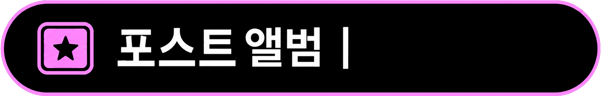
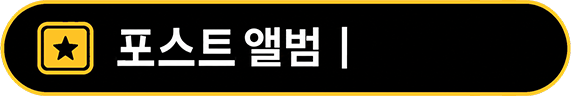
feat(post): 그래픽 소스 11-15 반영 — 머리글(Prime 단독·안내 문구) · 앨범/부스트 새 규격 · 장수 휴지통 위
- 머리글을 고정 높이 Stack으로: 제목 47 · 안내 문구(homeSubtitle) · 포스트 전용 Prime 277×92.
  높이는 가든과 같게 둬 공용 aboveCard·카드 크기 불변
- button_postalbum 571 · button_boost 430(부스트 622), 상태값 칸 재실측
- 1/9를 휴지통 위(903,524)로 크게, 자물쇠 330, 공유 576, 촬영 1839
- 대조 도구 공용 표에서 scene_post/button_prime 제외
- 에뮬에서 참고화면과 픽셀 대조(제목·Prime·문구 폭·장수 높이 일치)

Changed region(s): [[0.0595, 0.2188, 0.6252, 0.7812], [0.0, 0.0, 1.0, 1.0]]

diff --git a/lib/features/post/presentation/widgets/post_art.dart b/lib/features/post/presentation/widgets/post_art.dart
@@ -6,6 +6,8 @@ import 'package:flutter/material.dart';
 /// 줄여 그리기 때문이다 — **일본어판 이미지로 교체할 때 같은 규격이면 코드를 안 고쳐도 된다.**
 ///
 /// 좌표는 `오늘의 포스트 좌표값.png`의 1080 캔버스 픽셀값이다(Plan_4부터 단위 변환이 없다).
+/// 🆕 2026-11-15 전달본(`그래픽 소스/포스트 화면`) 기준 — 루나 버튼이 빠지고 Prime이 혼자 커졌다,
+/// 제목 아래 안내 문구가 생겼다, 장수(`1/9`)가 휴지통 위로 올라갔다, 앨범·부스트 그림 규격이 바뀌었다.
 class PostArt {
   const PostArt._();
 
@@ -25,36 +27,40 @@ class PostArt {
 
   static const String title = '$_dir/title_post.png';
   static const Size titleSize = Size(232, 66);
-  static const Offset titleAt = Offset(47, 106);
+  /// 참고화면 실측 104(좌표값 표기는 106). 머리글 칸은 [DesignCanvas.headerTop](102)에서 시작한다.
+  static const Offset titleAt = Offset(47, 104);
 
-  // 상단 우측 두 버튼 — 달빛가든과 같은 자리·같은 그림이라 common에 둔다.
-  static const String btnPrime = '$_garden/button_prime.png';
-  static const Size btnPrimeSize = Size(248, 83);
-  static const Offset btnPrimeAt = Offset(577, 102);
+  /// 제목 아래 안내 문구 `오늘의 일상을 사진으로 공유해 보세요.`(2026-11-15 시안) —
+  /// **그림으로 오지 않아 폰트로 그린다**(ARB `homeSubtitle`). 참고화면 실측 글자 48~599 · 198~230.
+  static const Offset subtitleAt = Offset(47, 195);
+  static const double subtitleFontSize = 34;
 
-  static const String btnLuna = '$_garden/button_luna.png';
-  static const Size btnLunaSize = Size(216, 83);
-  static const Offset btnLunaAt = Offset(838, 102);
+  /// 🚨 **포스트 전용 Prime**(277×92, 2026-11-15) — 루나 버튼이 빠지며 혼자 커졌다.
+  /// 달빛가든 머리글은 아직 옛 그림(248×83, `scene_garden`)이다 — 가든 전달본이 바뀌면 가든 세션이 맞춘다.
+  /// 머리글 칸(102~185)보다 위아래로 조금 넘친다(94~186) — 칸 높이는 가든과 같게 두고 그림만 넘치게 한다.
+  static const String btnPrime = '$_dir/button_prime.png';
+  static const Size btnPrimeSize = Size(277, 92);
+  static const Offset btnPrimeAt = Offset(777, 94);
 
-  // 카드 위 두 버튼.
+  // 카드 위 두 버튼(2026-11-15 규격 변경: 601→571 · 407→430, 부스트 시작 645→622).
   static const String btnAlbumPass = '$_dir/button_postalbum.png';
-  static const Size btnAlbumPassSize = Size(601, 96);
+  static const Size btnAlbumPassSize = Size(571, 96);
   static const Offset btnAlbumPassAt = Offset(23, 356);
 
   static const String btnBoost = '$_dir/button_boost.png';
-  static const Size btnBoostSize = Size(407, 96);
-  static const Offset btnBoostAt = Offset(645, 356);
+  static const Size btnBoostSize = Size(430, 96);
+  static const Offset btnBoostAt = Offset(622, 356);
 
   /// 두 버튼의 그림에는 `포스트 앨범 |` · `부스트 |` 까지만 있다.
   /// **막대 오른쪽은 비어 있고** 거기에 상태(남은 일수·남은 분·구매)를 얹는다 —
   /// 사람마다 다른 값이라 그림에 구울 수 없다.
   ///
   /// 상태값은 **막대(`|`) 오른쪽 끝 ~ 테두리 안쪽** 사이의 **가운데**에 놓는다(기획 2026-10-04).
-  /// 그림 실측: 앨범 막대 343~347·테두리 안쪽 597 / 부스트 막대 239~243·테두리 안쪽 404.
-  static const double btnAlbumPassStatusLeft = 348;
-  static const double btnAlbumPassStatusRight = 4; // 601 - 597
+  /// 그림 실측(2026-11-15판): 앨범 막대 342~346·테두리 안쪽 567 / 부스트 막대 239~243·테두리 안쪽 427.
+  static const double btnAlbumPassStatusLeft = 347;
+  static const double btnAlbumPassStatusRight = 4; // 571 - 567
   static const double btnBoostStatusLeft = 244;
-  static const double btnBoostStatusRight = 3; // 407 - 404
+  static const double btnBoostStatusRight = 3; // 430 - 427
 
   // 카드 안에 얹히는 것들.
   //
@@ -112,9 +118,13 @@ class PostArt {
   /// `[TOP]` — 시안 `64, 527`.
   static Offset get topChipAt => _fromCardTopLeft(const Offset(64, 527));
 
-  /// 잠금 마크 — `[TOP]`(64~308)과 PICK(414~) **사이 106의 가운데**, 세로는 [TOP]과 같은 줄
-  /// (높이도 84로 같다). 기획서 261011 3-1 그림에서 그 빈칸에 들어가 있다.
-  static Offset get lockAt => _fromCardTopLeft(const Offset(326, 527));
+  /// 잠금 마크 — 시안 `330, 527`(2026-11-15 좌표값). `[TOP]`(64~308)과 PICK(414~) 사이, 세로는 [TOP]과 같은 줄.
+  static Offset get lockAt => _fromCardTopLeft(const Offset(330, 527));
+
+  /// 몇 장째(`1/9`) — 시안 `903, 527`. **휴지통(903, 631) 바로 위**, 크게(2026-11-15).
+  /// 참고화면 실측 글자 907~988 · 529~578(숫자 높이 49).
+  static Offset get countAt => _fromCardTopLeft(const Offset(903, 524));
+  static const double countFontSize = 64;
 
   /// `PICK` — 시안 `414, 527`. **[TOP] 바로 옆이 아니다**(사이가 106 벌어져 있다).
   static Offset get pickAt => _fromCardTopLeft(const Offset(414, 527));
@@ -134,12 +144,12 @@ class PostArt {
   /// 하트·말풍선의 **아랫변**(둘 다 시안에서 2204에 끝난다).
   static const double bottomIconsBottom = _cardBottom - 2204;
 
-  /// `[포스트 공유하기]` — 시안 `577, 2099`. 오른쪽에서 잰다.
-  static double get shareRight => _cardRight - (577 + btnShareSize.width);
+  /// `[포스트 공유하기]` — 시안 `576, 2099`. 오른쪽에서 잰다.
+  static double get shareRight => _cardRight - (576 + btnShareSize.width);
   static double get shareBottom => _cardBottom - (2099 + btnShareSize.height);
 
-  /// 촬영 버튼 윗변(시안 `441, 1838`).
-  static const double _cameraTop = 1838;
+  /// 촬영 버튼 윗변(시안 `440, 1839`).
+  static const double _cameraTop = 1839;
 
   /// 촬영 버튼 아랫변 — **그림 높이에서 계산한다.**
   /// 예전엔 코드로 그리던 지름(164)을 더해 굳혀 뒀는데, 그림(188)으로 오면서 값이 어긋났다.

diff --git a/lib/features/post/presentation/screens/home_screen.dart b/lib/features/post/presentation/screens/home_screen.dart
@@ -186,9 +186,8 @@ class _PostBody extends ConsumerWidget {
         child: Column(
           crossAxisAlignment: CrossAxisAlignment.start,
           children: [
-            const _TopBar(),
-            // 머리글 줄 높이는 **Prime 버튼**이 정한다(타이틀보다 크다) — 간격도 거기 기준.
-            SizedBox(height: DesignCanvas.headerToRow * s),
+            // 머리글(제목·안내 문구·Prime) + 아래 간격을 **한 칸**으로 — 높이는 가든과 같다.
+            const _Header(),
             const _PassBoostRow(),
             SizedBox(height: PostArt.buttonsToCard * s),
             SizedBox(
@@ -211,30 +210,68 @@ class _PostBody extends ConsumerWidget {
 ///
 /// 달빛가든 머리글과 **같은 자리·같은 그림**을 쓴다(시안에서 두 화면의 상단이 동일하다) —
 /// Prime·루나 버튼은 달빛가든 폴더로 전달됐고 양쪽이 그 자리를 함께 가리킨다.
-class _TopBar extends ConsumerWidget {
-  const _TopBar();
+///
+/// 🆕 2026-11-15 시안: 루나 버튼이 빠져 **Prime 혼자 오른쪽**(277×92)이고, 제목 아래 **안내 문구**가 생겼다.
+///
+/// 🚨 **칸 높이는 가든과 똑같이 둔다** — 머리글 줄(102~185) + 버튼 줄까지 간격(185~356).
+/// 이 높이가 `DesignCanvas.aboveCard()`(가든과 공용)에 들어가 카드 크기를 정하기 때문이다.
+/// 그 안에서 제목·문구·Prime은 **시안 좌표 그대로** 얹는다(Prime은 칸보다 위로 8 넘친다).
+/// Row로 두던 때는 제목이 본문 왼쪽 끝(23)에 붙어 시안(47)보다 24 왼쪽이었다.
+class _Header extends StatelessWidget {
+  const _Header();
 
   @override
-  Widget build(BuildContext context, WidgetRef ref) {
-    return Row(
-      crossAxisAlignment: CrossAxisAlignment.center,
-      children: [
-        ArtImage(
-          PostArt.title,
-          width: PostArt.titleSize.width,
-          height: PostArt.titleSize.height,
-        ),
-        const Spacer(),
-        GestureDetector(
-          onTap: () => Navigator.of(context).push(PrimeScreen.route()),
-          child: ArtImage(
-            PostArt.btnPrime,
-            width: PostArt.btnPrimeSize.width,
-            height: PostArt.btnPrimeSize.height,
+  Widget build(BuildContext context) {
+    final s = DesignCanvas.scaleOf(context);
+    // 칸 원점 = 시안 (contentLeft, headerTop). 좌표를 그 기준으로 옮긴다.
+    double x(double v) => (v - DesignCanvas.contentLeft) * s;
+    double y(double v) => (v - DesignCanvas.headerTop) * s;
+
+    return SizedBox(
+      width: double.infinity,
+      height: (DesignCanvas.headerHeight + DesignCanvas.headerToRow) * s,
+      child: Stack(
+        clipBehavior: Clip.none,
+        children: [
+          Positioned(
+            left: x(PostArt.titleAt.dx),
+            top: y(PostArt.titleAt.dy),
+            child: ArtImage(
+              PostArt.title,
+              width: PostArt.titleSize.width,
+              height: PostArt.titleSize.height,
+            ),
           ),
-        ),
-        // 🗑 루나상점 버튼은 없어졌다(기획서 261111 — 루나 폐지, 사용자 2026-11-14). Prime이 오른쪽 끝으로 간다.
-      ],
+          // 안내 문구 — 그림으로 오지 않아 폰트로 그린다(언어는 ARB가 바꾼다).
+          Positioned(
+            left: x(PostArt.subtitleAt.dx),
+            top: y(PostArt.subtitleAt.dy),
+            child: Text(
+              L10n.of(context).homeSubtitle,
+              maxLines: 1,
+              style: TextStyle(
+                color: Colors.white,
+                fontSize: PostArt.subtitleFontSize * s,
+                fontWeight: FontWeight.w500,
+                height: 1.0,
+              ),
+            ),
+          ),
+          Positioned(
+            left: x(PostArt.btnPrimeAt.dx),
+            top: y(PostArt.btnPrimeAt.dy),
+            child: GestureDetector(
+              onTap: () => Navigator.of(context).push(PrimeScreen.route()),
+              child: ArtImage(
+                PostArt.btnPrime,
+                width: PostArt.btnPrimeSize.width,
+                height: PostArt.btnPrimeSize.height,
+              ),
+            ),
+          ),
+          // 🗑 루나상점 버튼은 없어졌다(기획서 261111 — 루나 폐지, 사용자 2026-11-14).
+        ],
+      ),
     );
   }
 }
@@ -520,23 +557,20 @@ class _PostPhotoCardState extends ConsumerState<_PostPhotoCard> {
             ),
           ),
 
-        // 몇 장째인지 — 휴지통 **왼쪽**에 둔다.
-        // 시안에는 없지만 사람마다·순간마다 달라지는 **상태**라 폰트가 맡는 자리다(14 §3).
+        // 몇 장째인지 — 2026-11-15 시안에서 **휴지통 바로 위, 크게**(903, 527)로 자리가 생겼다.
+        // 사람마다·순간마다 달라지는 **상태**라 폰트가 맡는다(14 §3).
         if (hasPhoto)
           Positioned(
-            right:
-                (PostArt.deleteRight + PostArt.btnDeleteSize.width + 12) *
-                    cardScale,
-            top:
-                (PostArt.deleteTop + PostArt.btnDeleteSize.height / 2 - 10) *
-                    cardScale,
+            left: PostArt.countAt.dx * cardScale,
+            top: PostArt.countAt.dy * cardScale,
             child: Text(
               // 무료로 돌아와 한도(2)보다 많이 남아 있으면 `3/2`가 되므로 큰 쪽을 분모로.
               '${index + 1}/${_photos.length > widget.post.maxPhotos ? _photos.length : widget.post.maxPhotos}',
-              style: const TextStyle(
+              style: TextStyle(
                 color: Colors.white,
-                fontSize: 13,
-                fontWeight: FontWeight.w700,
+                fontSize: PostArt.countFontSize * cardScale,
+                fontWeight: FontWeight.w800,
+                height: 1.0,
               ),
             ),
           ),

diff --git a/lib/l10n/app_localizations.dart b/lib/l10n/app_localizations.dart
@@ -313,6 +313,12 @@ abstract class L10n {
   /// **'오늘의 포스트'**
   String get homeTitle;
 
+  /// No description provided for @homeSubtitle.
+  ///
+  /// In ko, this message translates to:
+  /// **'오늘의 일상을 사진으로 공유해 보세요.'**
+  String get homeSubtitle;
+
   /// No description provided for @homeTodayMoon.
   ///
   /// In ko, this message translates to:

diff --git a/lib/l10n/app_localizations_ja.dart b/lib/l10n/app_localizations_ja.dart
@@ -117,6 +117,9 @@ class L10nJa extends L10n {
   String get homeTitle => '今日のポスト';
 
   @override
+  String get homeSubtitle => '今日の日常を写真でシェアしてみましょう。';
+
+  @override
   String get homeTodayMoon => '今日の月';
 
   @override

diff --git a/lib/l10n/app_localizations_ko.dart b/lib/l10n/app_localizations_ko.dart
@@ -117,6 +117,9 @@ class L10nKo extends L10n {
   String get homeTitle => '오늘의 포스트';
 
   @override
+  String get homeSubtitle => '오늘의 일상을 사진으로 공유해 보세요.';
+
+  @override
   String get homeTodayMoon => '오늘의 달';
 
   @override

diff --git a/tools/spec/compare_ui_delivery.py b/tools/spec/compare_ui_delivery.py
@@ -169,7 +169,7 @@ SHARED = {
     'scene_friend/friend_list/button_receive_color.png': 'scene_talk/talk_list/button_receive_color.png',
     'scene_friend/friend_list/button_receive_normal.png': 'scene_talk/talk_list/button_receive_normal.png',
     # 화면 폴더마다 따라오는 상단 [Prime] — 공용은 가든 것 하나(ArtTopBar)
-    'scene_post/button_prime.png': 'scene_garden/button_prime.png',
+    # (포스트는 2026-11-15부터 자기 Prime(277×92)을 따로 쓴다 — 루나가 빠지며 커졌다. 공용 표에서 뺐다)
     'scene_talk/talk_list/button_prime.png': 'scene_garden/button_prime.png',
     'scene_talk/application_received/button_prime.png': 'scene_garden/button_prime.png',
     'scene_friend/friend_list/button_prime.png': 'scene_garden/button_prime.png',
